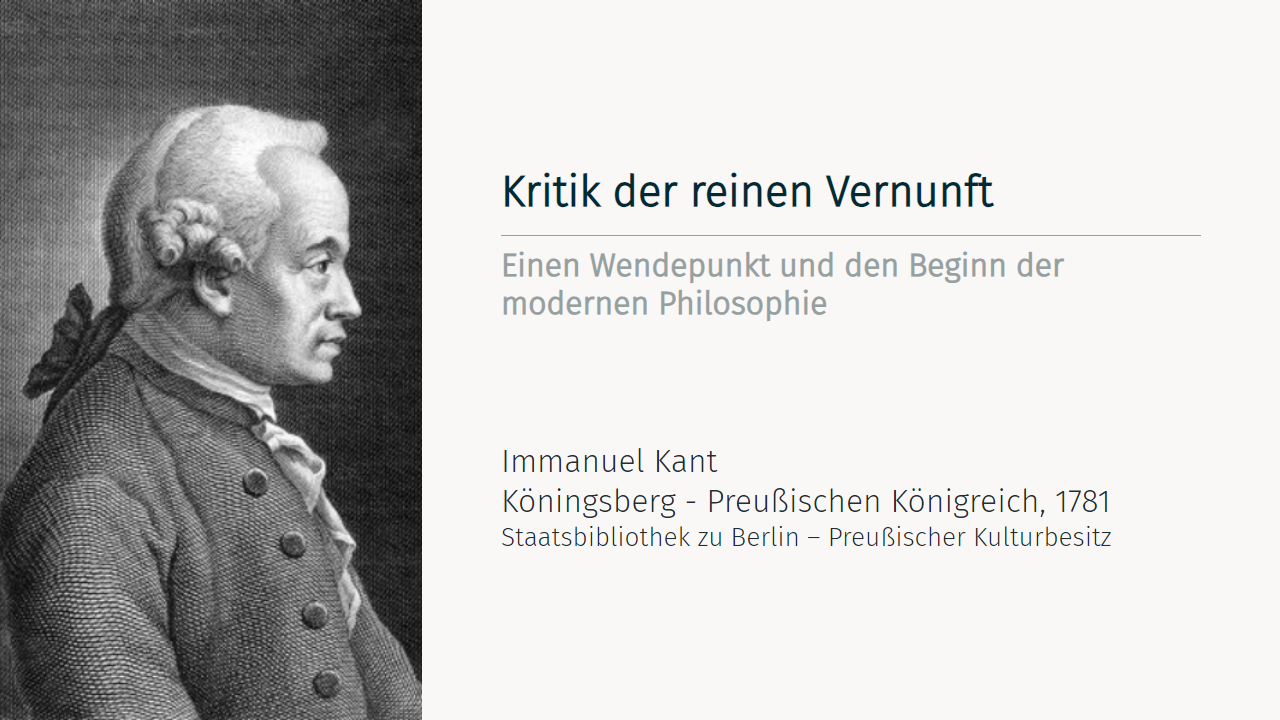
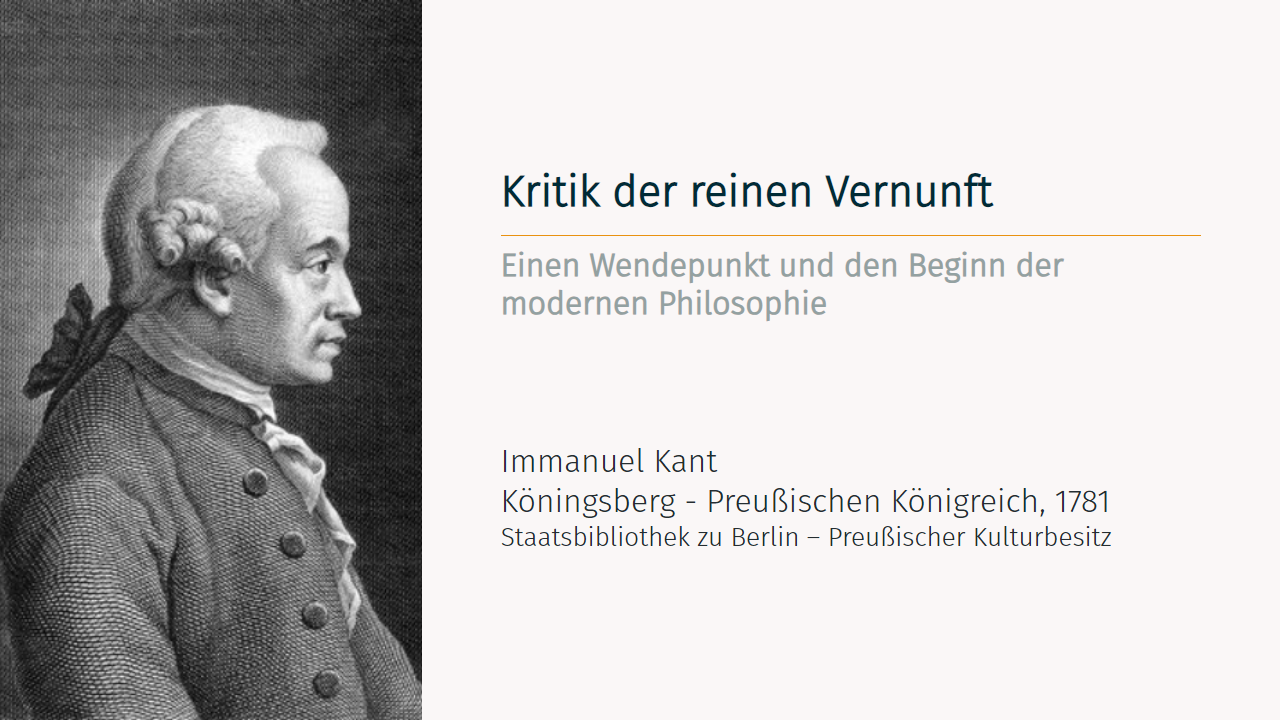
Corrections

diff --git a/style/kant.css b/style/kant.css
@@ -14,9 +14,18 @@
 @import "schema";
 @import "structure";
 
+/* Importing Font */
+/* Font Credit: htts://https://www.cdnfonts.com/ */
+/* @import url('https://fonts.cdnfonts.com/css/fira-sans-condensed?styles=19730'); */
+
+/* @import url('https://fonts.cdnfonts.com/css/fira-sans-condensed');*/
+@import url('https://fonts.cdnfonts.com/css/fira-sans-book'); 
+
+
 /***************** COMMON STRUCTURE **********************/
 
 :root {
+  /* font-family: 'Fira Sans Book'; */
   font-family: 'Fira Sans Light';
   font-weight: initial;
 }

diff --git a/style/plato.css b/style/plato.css
@@ -14,6 +14,9 @@
 @import "schema";
 @import "structure";
 
+/* @import url('https://fonts.cdnfonts.com/css/fira-sans-condensed');*/
+@import url('https://fonts.cdnfonts.com/css/fira-sans-book'); 
+
 /***************** COMMON STRUCTURE **********************/
 
 :root {

diff --git a/style/socrates.css b/style/socrates.css
@@ -14,6 +14,9 @@
 @import "schema";
 @import "structure";
 
+/* Font Credit: htts://https://www.cdnfonts.com/ */
+@import url('https://fonts.cdnfonts.com/css/lato');
+
 /***************** COMMON STRUCTURE **********************/
 
 :root {
